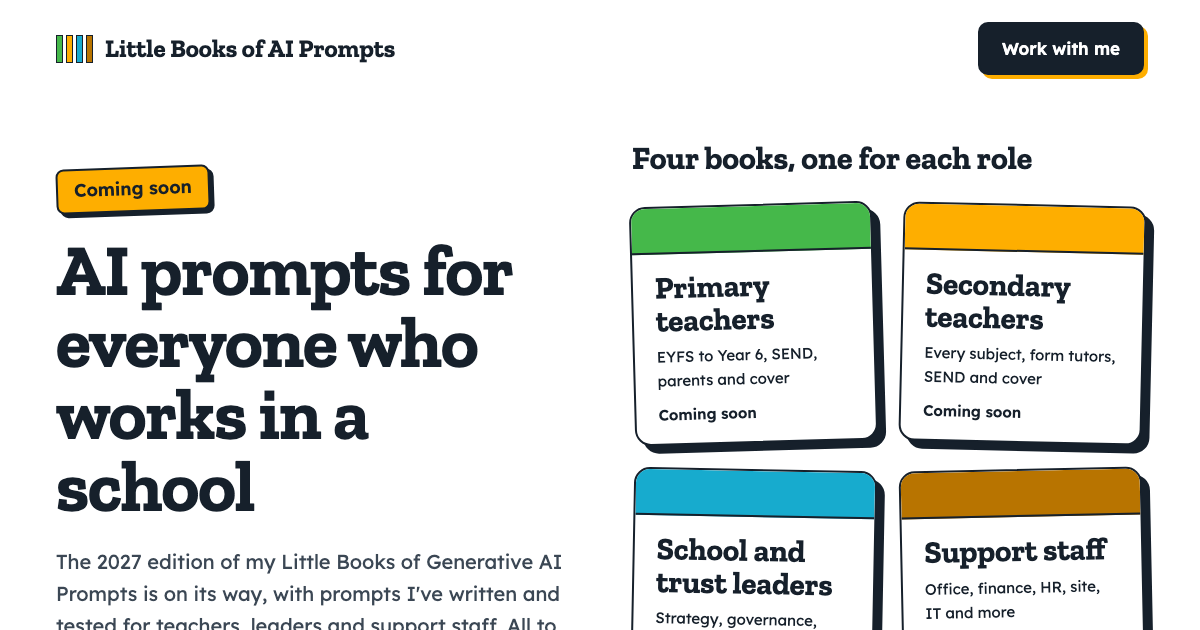
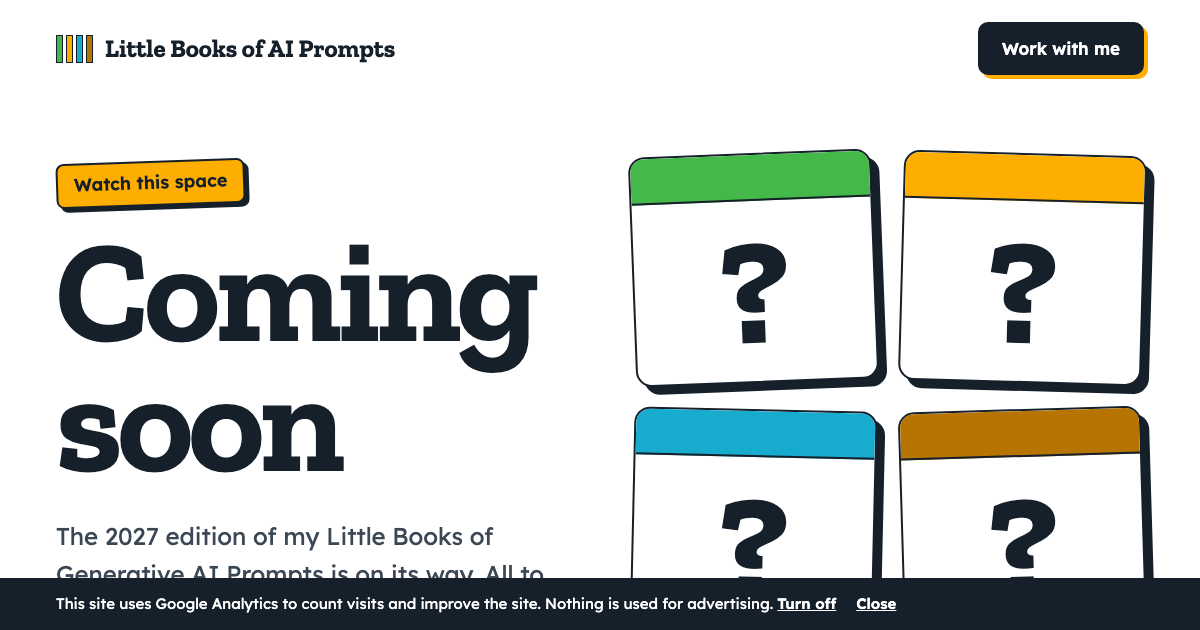
Holding page: a short coming soon teaser

diff --git a/index.html b/index.html
@@ -4,23 +4,23 @@
 <meta charset="utf-8">
 <meta name="viewport" content="width=device-width, initial-scale=1">
 <script>window.dataLayer=window.dataLayer||[];function gtag(){dataLayer.push(arguments);}if(location.hostname==="prompts.ictevangelist.com"){var gaOff=false;try{gaOff=localStorage.getItem("ga-optout")==="1";}catch(e){}gtag("consent","default",{"analytics_storage":gaOff?"denied":"granted","ad_storage":"denied","ad_user_data":"denied","ad_personalization":"denied"});gtag("js",new Date());gtag("config","G-3GVSLSE1K1");var gs=document.createElement("script");gs.async=true;gs.src="https://www.googletagmanager.com/gtag/js?id=G-3GVSLSE1K1";document.head.appendChild(gs);}</script>
-<title>AI Prompts for Teachers, School Leaders and Support Staff | Coming Soon</title>
-<meta name="description" content="The 2027 Little Books of Generative AI Prompts by Mark Anderson are coming soon: tested AI prompts for primary teachers, secondary teachers, school and trust leaders and support staff.">
+<title>Coming Soon | The Little Books of Generative AI Prompts by Mark Anderson</title>
+<meta name="description" content="The 2027 edition of The Little Books of Generative AI Prompts by Mark Anderson is coming soon. All to be revealed, so watch this space.">
 <link rel="canonical" href="https://prompts.ictevangelist.com/">
 <meta name="author" content="Mark Anderson (ICT Evangelist)">
 <meta name="robots" content="index, follow">
 <meta property="og:type" content="website">
 <meta property="og:site_name" content="The Little Books of Generative AI Prompts">
-<meta property="og:title" content="AI Prompts for Teachers, School Leaders and Support Staff | Coming Soon">
-<meta property="og:description" content="The 2027 Little Books of Generative AI Prompts by Mark Anderson are coming soon: tested AI prompts for primary teachers, secondary teachers, school and trust leaders and support staff.">
+<meta property="og:title" content="Coming Soon | The Little Books of Generative AI Prompts by Mark Anderson">
+<meta property="og:description" content="The 2027 edition of The Little Books of Generative AI Prompts by Mark Anderson is coming soon. All to be revealed, so watch this space.">
 <meta property="og:url" content="https://prompts.ictevangelist.com/">
 <meta property="og:image" content="https://prompts.ictevangelist.com/assets/og-image.png">
 <meta name="twitter:card" content="summary_large_image">
 <link rel="icon" href="/favicon.svg" type="image/svg+xml">
 <link rel="preload" href="/assets/fonts/zilla-slab-700.woff2" as="font" type="font/woff2" crossorigin>
 <link rel="preload" href="/assets/fonts/lexend-var.woff2" as="font" type="font/woff2" crossorigin>
-<link rel="stylesheet" href="/css/styles.css?v=2">
-<script type="application/ld+json">{"@context": "https://schema.org", "@graph": [{"@type": "WebSite", "@id": "https://prompts.ictevangelist.com/#website", "url": "https://prompts.ictevangelist.com/", "name": "The Little Books of Generative AI Prompts", "inLanguage": "en-GB", "publisher": {"@id": "https://ictevangelist.com/#org"}, "author": {"@id": "https://ictevangelist.com/#mark-anderson"}}, {"@type": "Organization", "@id": "https://ictevangelist.com/#org", "name": "ICT Evangelist", "url": "https://ictevangelist.com", "founder": {"@id": "https://ictevangelist.com/#mark-anderson"}}, {"@type": "Person", "@id": "https://ictevangelist.com/#mark-anderson", "name": "Mark Anderson", "url": "https://ictevangelist.com", "jobTitle": "Education technology consultant, trainer and author", "sameAs": ["https://www.linkedin.com/in/themarkanderson/", "https://x.com/ICTEvangelist"]}, {"@type": "WebPage", "@id": "https://prompts.ictevangelist.com/", "url": "https://prompts.ictevangelist.com/", "name": "AI Prompts for Teachers, School Leaders and Support Staff", "description": "The 2027 Little Books of Generative AI Prompts by Mark Anderson are coming soon: tested AI prompts for primary teachers, secondary teachers, school and trust leaders and support staff.", "inLanguage": "en-GB", "isPartOf": {"@id": "https://prompts.ictevangelist.com/#website"}, "author": {"@id": "https://ictevangelist.com/#mark-anderson"}, "dateModified": "2026-11-24"}, {"@type": "FAQPage", "mainEntity": [{"@type": "Question", "name": "What are the Little Books of Generative AI Prompts?", "acceptedAnswer": {"@type": "Answer", "text": "They're four books of prompts I've written and tested for people who work in schools. Each prompt is ready to copy, paste and make your own in the AI tool your school has given you."}}, {"@type": "Question", "name": "Who are the books for?", "acceptedAnswer": {"@type": "Answer", "text": "There's one for primary teachers, one for secondary teachers, one for school and trust leaders and one for support staff. Teaching assistants are covered by the two teacher books."}}, {"@type": "Question", "name": "When will the prompts be here?", "acceptedAnswer": {"@type": "Answer", "text": "Soon. This is the 2027 edition, and the date is all to be revealed."}}, {"@type": "Question", "name": "Can Mark work with my school or trust on AI?", "acceptedAnswer": {"@type": "Answer", "text": "Yes. I run keynotes, INSET days, training and digital strategy support for schools and trusts, and you can get in touch at ictevangelist.com/contact."}}]}]}</script>
+<link rel="stylesheet" href="/css/styles.css?v=3">
+<script type="application/ld+json">{"@context": "https://schema.org", "@graph": [{"@type": "WebSite", "@id": "https://prompts.ictevangelist.com/#website", "url": "https://prompts.ictevangelist.com/", "name": "The Little Books of Generative AI Prompts", "inLanguage": "en-GB", "publisher": {"@id": "https://ictevangelist.com/#org"}, "author": {"@id": "https://ictevangelist.com/#mark-anderson"}}, {"@type": "Organization", "@id": "https://ictevangelist.com/#org", "name": "ICT Evangelist", "url": "https://ictevangelist.com", "founder": {"@id": "https://ictevangelist.com/#mark-anderson"}}, {"@type": "Person", "@id": "https://ictevangelist.com/#mark-anderson", "name": "Mark Anderson", "url": "https://ictevangelist.com", "jobTitle": "Education technology consultant, trainer and author", "sameAs": ["https://www.linkedin.com/in/themarkanderson/", "https://x.com/ICTEvangelist"]}, {"@type": "WebPage", "@id": "https://prompts.ictevangelist.com/", "url": "https://prompts.ictevangelist.com/", "name": "Coming soon", "description": "The 2027 edition of The Little Books of Generative AI Prompts by Mark Anderson is coming soon. All to be revealed, so watch this space.", "inLanguage": "en-GB", "isPartOf": {"@id": "https://prompts.ictevangelist.com/#website"}, "author": {"@id": "https://ictevangelist.com/#mark-anderson"}, "dateModified": "2026-11-24"}]}</script>
 </head>
 <body>
 <a class="skip" href="#main">Skip to main content</a>
@@ -29,29 +29,18 @@
   <a class="btn btn--dark" href="https://ictevangelist.com/contact/">Work with me</a>
 </header>
 <main id="main">
-<section class="hero">
+<section class="hero hero--teaser">
   <div class="hero__text">
-    <p class="tape">Coming soon</p>
-    <h1>AI prompts for everyone who works in a school</h1>
-    <p class="sub">The 2027 edition of my Little Books of Generative AI Prompts is on its way, with prompts I've written and tested for teachers, leaders and support staff. All to be revealed.</p>
+    <p class="tape">Watch this space</p>
+    <h1>Coming soon</h1>
+    <p class="sub">The 2027 edition of my Little Books of Generative AI Prompts is on its way. All to be revealed.</p>
   </div>
-  <div class="hero__roles">
-    <h2>Four books, one for each role</h2>
-    <ul class="tiles"><li class="tile" style="--c:#45B84A;--t:-1.6deg"><i aria-hidden="true"></i><b>Primary teachers</b><span>EYFS to Year 6, SEND, parents and cover</span><small>Coming soon</small></li><li class="tile" style="--c:#FEAE00;--t:1.3deg"><i aria-hidden="true"></i><b>Secondary teachers</b><span>Every subject, form tutors, SEND and cover</span><small>Coming soon</small></li><li class="tile" style="--c:#17ABCE;--t:1.1deg"><i aria-hidden="true"></i><b>School and trust leaders</b><span>Strategy, governance, people and risk</span><small>Coming soon</small></li><li class="tile" style="--c:#B87400;--t:-1.2deg"><i aria-hidden="true"></i><b>Support staff</b><span>Office, finance, HR, site, IT and more</span><small>Coming soon</small></li></ul>
-  </div>
+  <ul class="tiles" aria-label="Four books, still under wraps"><li class="tile tile--q" style="--c:#45B84A;--t:-2.2deg"><i aria-hidden="true"></i><b aria-hidden="true">?</b></li><li class="tile tile--q" style="--c:#FEAE00;--t:1.6deg"><i aria-hidden="true"></i><b aria-hidden="true">?</b></li><li class="tile tile--q" style="--c:#17ABCE;--t:1.3deg"><i aria-hidden="true"></i><b aria-hidden="true">?</b></li><li class="tile tile--q" style="--c:#B87400;--t:-1.7deg"><i aria-hidden="true"></i><b aria-hidden="true">?</b></li></ul>
 </section>
 <section class="band">
   <img src="/assets/img/mark-wave.png" alt="Cartoon of Mark Anderson waving" width="384" height="366">
-  <div class="band__text"><h2>Want this live in your school?</h2><p>I run keynotes, INSET days, training and digital strategy support for schools and trusts, and every session starts with the teaching and learning.</p></div>
+  <div class="band__text"><h2>Can't wait?</h2><p>I run keynotes, INSET days, training and digital strategy support for schools and trusts, and every session starts with the teaching and learning.</p></div>
   <a class="btn btn--amber" href="https://ictevangelist.com/contact/">Work with me</a>
-</section>
-<section class="faq">
-  <h2>Questions people ask</h2>
-  <div class="qas"><div class="qa"><h3>What are the Little Books of Generative AI Prompts?</h3><p>They&#x27;re four books of prompts I&#x27;ve written and tested for people who work in schools. Each prompt is ready to copy, paste and make your own in the AI tool your school has given you.</p></div><div class="qa"><h3>Who are the books for?</h3><p>There&#x27;s one for primary teachers, one for secondary teachers, one for school and trust leaders and one for support staff. Teaching assistants are covered by the two teacher books.</p></div><div class="qa"><h3>When will the prompts be here?</h3><p>Soon. This is the 2027 edition, and the date is all to be revealed.</p></div><div class="qa"><h3>Can Mark work with my school or trust on AI?</h3><p>Yes. I run keynotes, INSET days, training and digital strategy support for schools and trusts, and you can get in touch at <a href="https://ictevangelist.com/contact/">ictevangelist.com/contact</a>.</p></div></div>
-</section>
-<section class="more">
-  <h2>Free from me while you wait</h2>
-  <ul class="sis"><li><a href="https://ailiteracycurriculum.ictevangelist.com"><b>AI Literacy Curriculum</b><span>A free AI literacy curriculum for Years 1 to 6.</span></a></li><li><a href="https://aigovernance.ictevangelist.com"><b>AI Governance in Education</b><span>A free AI policy template, with every section explained in plain English.</span></a></li><li><a href="https://pedagogyfirst.ictevangelist.com"><b>Pedagogy First</b><span>Free, evidence-informed teaching strategies, with or without technology.</span></a></li></ul>
 </section>
 </main>
 <footer class="foot">

diff --git a/404.html b/404.html
@@ -19,7 +19,7 @@
 <link rel="icon" href="/favicon.svg" type="image/svg+xml">
 <link rel="preload" href="/assets/fonts/zilla-slab-700.woff2" as="font" type="font/woff2" crossorigin>
 <link rel="preload" href="/assets/fonts/lexend-var.woff2" as="font" type="font/woff2" crossorigin>
-<link rel="stylesheet" href="/css/styles.css?v=2">
+<link rel="stylesheet" href="/css/styles.css?v=3">
 <script type="application/ld+json">{"@context": "https://schema.org", "@graph": [{"@type": "WebSite", "@id": "https://prompts.ictevangelist.com/#website", "url": "https://prompts.ictevangelist.com/", "name": "The Little Books of Generative AI Prompts", "inLanguage": "en-GB", "publisher": {"@id": "https://ictevangelist.com/#org"}, "author": {"@id": "https://ictevangelist.com/#mark-anderson"}}, {"@type": "Organization", "@id": "https://ictevangelist.com/#org", "name": "ICT Evangelist", "url": "https://ictevangelist.com", "founder": {"@id": "https://ictevangelist.com/#mark-anderson"}}, {"@type": "Person", "@id": "https://ictevangelist.com/#mark-anderson", "name": "Mark Anderson", "url": "https://ictevangelist.com", "jobTitle": "Education technology consultant, trainer and author", "sameAs": ["https://www.linkedin.com/in/themarkanderson/", "https://x.com/ICTEvangelist"]}, {"@type": "WebPage", "@id": "https://prompts.ictevangelist.com/", "url": "https://prompts.ictevangelist.com/", "name": "AI Prompts for Teachers, School Leaders and Support Staff", "description": "The 2027 Little Books of Generative AI Prompts by Mark Anderson are coming soon: tested AI prompts for primary teachers, secondary teachers, school and trust leaders and support staff.", "inLanguage": "en-GB", "isPartOf": {"@id": "https://prompts.ictevangelist.com/#website"}, "author": {"@id": "https://ictevangelist.com/#mark-anderson"}, "dateModified": "2026-11-24"}, {"@type": "FAQPage", "mainEntity": [{"@type": "Question", "name": "What are the Little Books of Generative AI Prompts?", "acceptedAnswer": {"@type": "Answer", "text": "They're four books of prompts I've written and tested for people who work in schools. Each prompt is ready to copy, paste and make your own in the AI tool your school has given you."}}, {"@type": "Question", "name": "Who are the books for?", "acceptedAnswer": {"@type": "Answer", "text": "There's one for primary teachers, one for secondary teachers, one for school and trust leaders and one for support staff. Teaching assistants are covered by the two teacher books."}}, {"@type": "Question", "name": "When will the prompts be here?", "acceptedAnswer": {"@type": "Answer", "text": "Soon. This is the 2027 edition, and the date is all to be revealed."}}, {"@type": "Question", "name": "Can Mark work with my school or trust on AI?", "acceptedAnswer": {"@type": "Answer", "text": "Yes. I run keynotes, INSET days, training and digital strategy support for schools and trusts, and you can get in touch at ictevangelist.com/contact."}}]}]}</script>
 </head>
 <body>
@@ -29,29 +29,18 @@
   <a class="btn btn--dark" href="https://ictevangelist.com/contact/">Work with me</a>
 </header>
 <main id="main">
-<section class="hero">
+<section class="hero hero--teaser">
   <div class="hero__text">
-    <p class="tape">Coming soon</p>
+    <p class="tape">Watch this space</p>
     <h1>That page isn't here yet</h1>
-    <p class="sub">The 2027 edition of my Little Books of Generative AI Prompts is on its way, with prompts I've written and tested for teachers, leaders and support staff. All to be revealed.</p>
+    <p class="sub">The 2027 edition of my Little Books of Generative AI Prompts is on its way. All to be revealed.</p>
   </div>
-  <div class="hero__roles">
-    <h2>Four books, one for each role</h2>
-    <ul class="tiles"><li class="tile" style="--c:#45B84A;--t:-1.6deg"><i aria-hidden="true"></i><b>Primary teachers</b><span>EYFS to Year 6, SEND, parents and cover</span><small>Coming soon</small></li><li class="tile" style="--c:#FEAE00;--t:1.3deg"><i aria-hidden="true"></i><b>Secondary teachers</b><span>Every subject, form tutors, SEND and cover</span><small>Coming soon</small></li><li class="tile" style="--c:#17ABCE;--t:1.1deg"><i aria-hidden="true"></i><b>School and trust leaders</b><span>Strategy, governance, people and risk</span><small>Coming soon</small></li><li class="tile" style="--c:#B87400;--t:-1.2deg"><i aria-hidden="true"></i><b>Support staff</b><span>Office, finance, HR, site, IT and more</span><small>Coming soon</small></li></ul>
-  </div>
+  <ul class="tiles" aria-label="Four books, still under wraps"><li class="tile tile--q" style="--c:#45B84A;--t:-2.2deg"><i aria-hidden="true"></i><b aria-hidden="true">?</b></li><li class="tile tile--q" style="--c:#FEAE00;--t:1.6deg"><i aria-hidden="true"></i><b aria-hidden="true">?</b></li><li class="tile tile--q" style="--c:#17ABCE;--t:1.3deg"><i aria-hidden="true"></i><b aria-hidden="true">?</b></li><li class="tile tile--q" style="--c:#B87400;--t:-1.7deg"><i aria-hidden="true"></i><b aria-hidden="true">?</b></li></ul>
 </section>
 <section class="band">
   <img src="/assets/img/mark-wave.png" alt="Cartoon of Mark Anderson waving" width="384" height="366">
-  <div class="band__text"><h2>Want this live in your school?</h2><p>I run keynotes, INSET days, training and digital strategy support for schools and trusts, and every session starts with the teaching and learning.</p></div>
+  <div class="band__text"><h2>Can't wait?</h2><p>I run keynotes, INSET days, training and digital strategy support for schools and trusts, and every session starts with the teaching and learning.</p></div>
   <a class="btn btn--amber" href="https://ictevangelist.com/contact/">Work with me</a>
-</section>
-<section class="faq">
-  <h2>Questions people ask</h2>
-  <div class="qas"><div class="qa"><h3>What are the Little Books of Generative AI Prompts?</h3><p>They&#x27;re four books of prompts I&#x27;ve written and tested for people who work in schools. Each prompt is ready to copy, paste and make your own in the AI tool your school has given you.</p></div><div class="qa"><h3>Who are the books for?</h3><p>There&#x27;s one for primary teachers, one for secondary teachers, one for school and trust leaders and one for support staff. Teaching assistants are covered by the two teacher books.</p></div><div class="qa"><h3>When will the prompts be here?</h3><p>Soon. This is the 2027 edition, and the date is all to be revealed.</p></div><div class="qa"><h3>Can Mark work with my school or trust on AI?</h3><p>Yes. I run keynotes, INSET days, training and digital strategy support for schools and trusts, and you can get in touch at <a href="https://ictevangelist.com/contact/">ictevangelist.com/contact</a>.</p></div></div>
-</section>
-<section class="more">
-  <h2>Free from me while you wait</h2>
-  <ul class="sis"><li><a href="https://ailiteracycurriculum.ictevangelist.com"><b>AI Literacy Curriculum</b><span>A free AI literacy curriculum for Years 1 to 6.</span></a></li><li><a href="https://aigovernance.ictevangelist.com"><b>AI Governance in Education</b><span>A free AI policy template, with every section explained in plain English.</span></a></li><li><a href="https://pedagogyfirst.ictevangelist.com"><b>Pedagogy First</b><span>Free, evidence-informed teaching strategies, with or without technology.</span></a></li></ul>
 </section>
 </main>
 <footer class="foot">

diff --git a/css/styles.css b/css/styles.css
@@ -56,3 +56,9 @@ h1{font-size:clamp(44px,6vw,84px);line-height:1;letter-spacing:-.015em}
 .ga-pop .ga-note{margin:0}.ga-pop button{font:inherit;font-weight:600;background:none;border:0;padding:0;color:#fff;text-decoration:underline;cursor:pointer}
 .ga-pop :focus-visible{outline:3px solid #fff;outline-offset:2px}
 @media (max-width:980px){.prose{padding:24px 20px 0}.ga-pop{padding:14px 20px}}
+.hero--teaser{min-height:62vh;padding-top:56px;padding-bottom:40px}
+.hero--teaser h1{font-size:clamp(72px,12vw,190px);line-height:.9;letter-spacing:-.03em}
+.hero--teaser .sub{font-size:24px;margin-top:30px}
+.tile--q{min-height:230px}
+.tile--q b{font-size:150px;line-height:1;padding:0;margin:auto;color:#16202b}
+@media (max-width:980px){.hero--teaser{min-height:0}.tile--q{min-height:150px}.tile--q b{font-size:96px}.hero--teaser .tiles{grid-template-columns:1fr 1fr}}

diff --git a/privacy/index.html b/privacy/index.html
@@ -19,7 +19,7 @@
 <link rel="icon" href="/favicon.svg" type="image/svg+xml">
 <link rel="preload" href="/assets/fonts/zilla-slab-700.woff2" as="font" type="font/woff2" crossorigin>
 <link rel="preload" href="/assets/fonts/lexend-var.woff2" as="font" type="font/woff2" crossorigin>
-<link rel="stylesheet" href="/css/styles.css?v=2">
+<link rel="stylesheet" href="/css/styles.css?v=3">
 </head>
 <body>
 <a class="skip" href="#main">Skip to main content</a>
